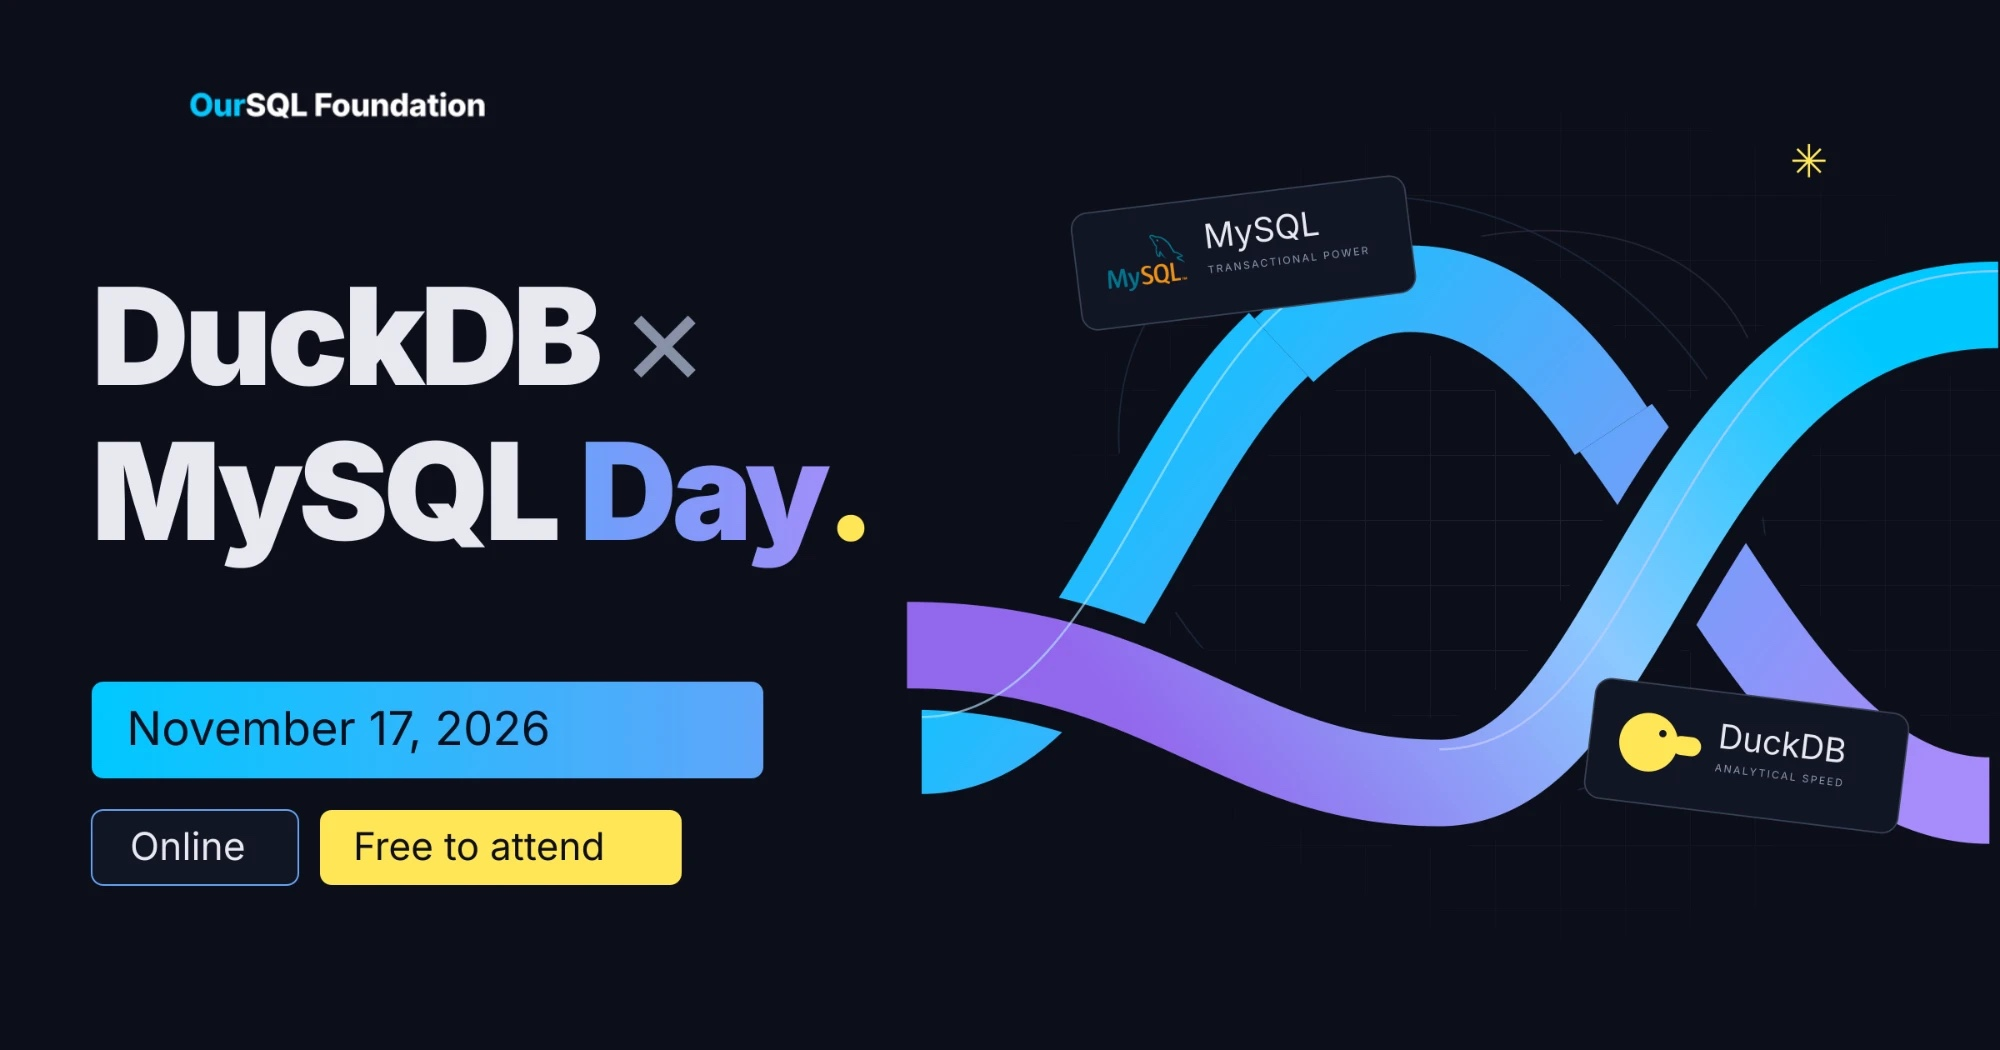
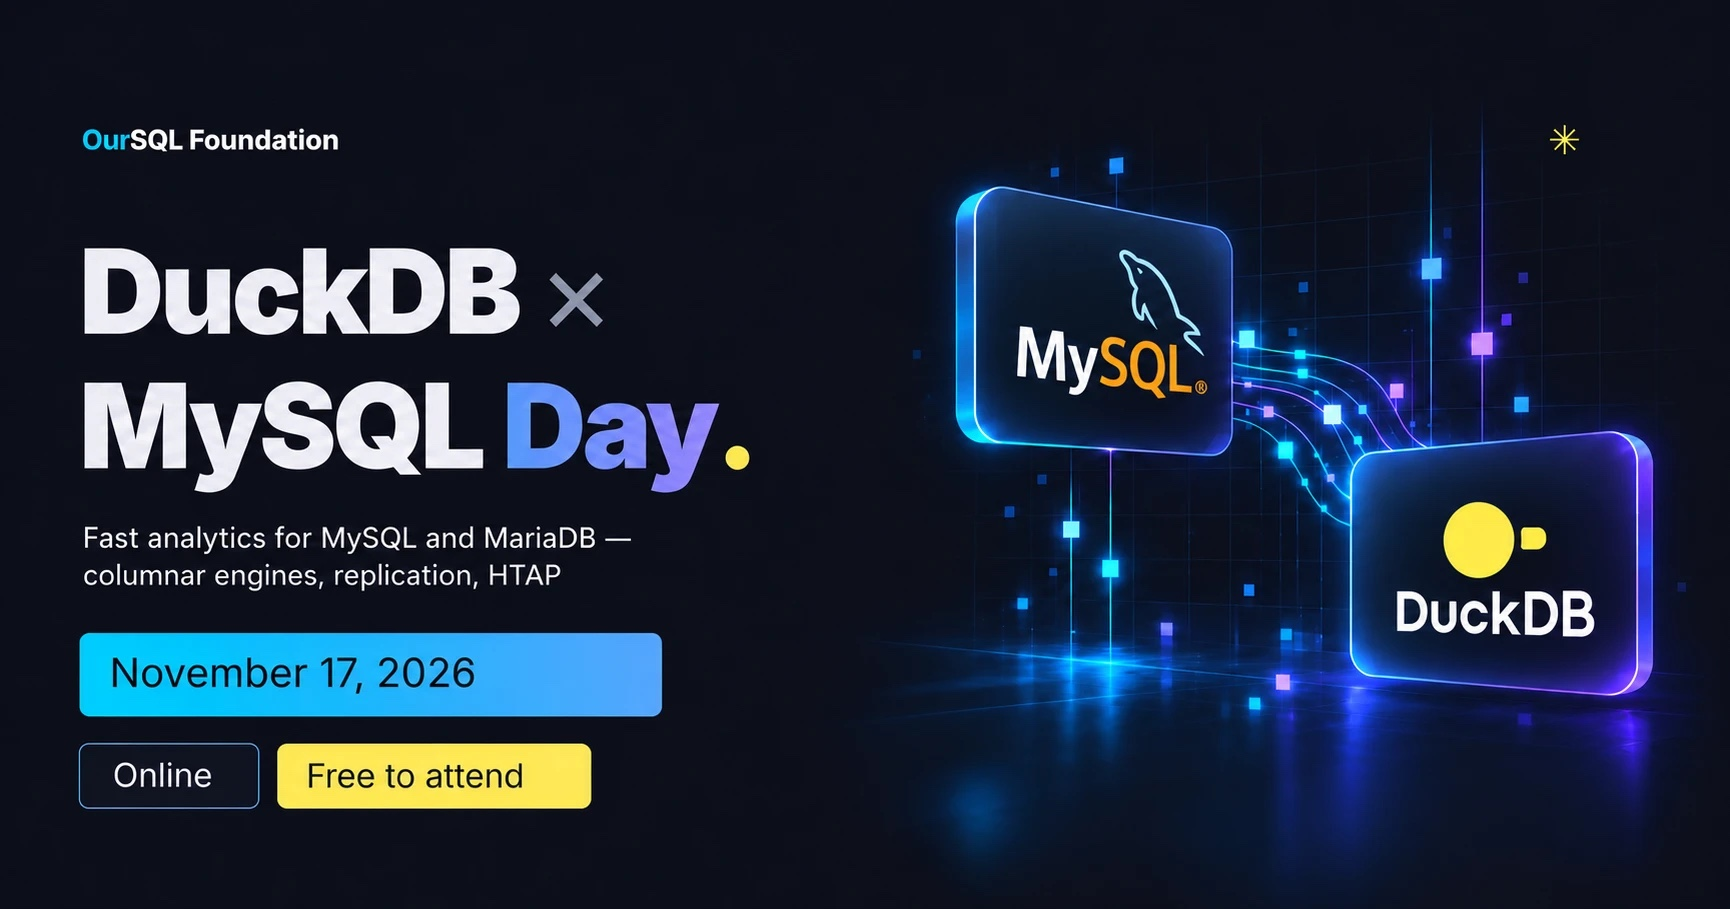
DuckDB × MySQL Day: new hero illustration, compact hero, new share cover (#125)
* DuckDB × MySQL Day: new hero illustration

Replaces the CSS/SVG hero artwork with the supplied illustration (SVG, transparent
background).

* DuckDB × MySQL Day: compact desktop hero so the date strip is on the first screen

* DuckDB × MySQL Day: larger hero illustration, MariaDB in the hero description

* DuckDB × MySQL Day: new social share cover

---------

diff --git a/layouts/partials/events/duckdb-hero-art.html b/layouts/partials/events/duckdb-hero-art.html
@@ -1,2 +1,4 @@
-{{/* Hero artwork for the DuckDB × MySQL Day landing: intertwined flows between a MySQL and a DuckDB card. Context: the page. */}}
-<div class="dmd-hero-art" aria-label="Intertwining OurSQL flows connecting MySQL and DuckDB"><div class="dmd-art-grid"></div><div class="dmd-orbit dmd-one"></div><div class="dmd-orbit dmd-two"></div><svg class="dmd-flow-art" viewBox="0 0 640 640" fill="none" aria-hidden="true"><defs><linearGradient id="flow" x1="70" y1="120" x2="570" y2="520" gradientUnits="userSpaceOnUse"><stop stop-color="#00C8FF"/><stop offset=".5" stop-color="#60A5FA"/><stop offset="1" stop-color="#A78BFA"/></linearGradient><linearGradient id="bright" x1="120" y1="500" x2="550" y2="150" gradientUnits="userSpaceOnUse"><stop stop-color="#9267ED"/><stop offset=".52" stop-color="#8BC9FF"/><stop offset="1" stop-color="#00C8FF"/></linearGradient></defs><path d="M-70 458C74 458 99 143 263 143S486 492 658 492" stroke="#0D0F1A" stroke-width="87"/><path d="M-70 458C74 458 99 143 263 143S486 492 658 492" stroke="url(#flow)" stroke-width="59"/><path d="M-80 386C92 386 144 480 283 480S435 154 664 154" stroke="#0D0F1A" stroke-width="88"/><path d="M-80 386C92 386 144 480 283 480S435 154 664 154" stroke="url(#bright)" stroke-width="59"/><path d="M177 185C207 157 233 143 263 143C318 143 361 181 400 240" stroke="#0D0F1A" stroke-width="87"/><path d="M177 185C207 157 233 143 263 143C318 143 361 181 400 240" stroke="url(#flow)" stroke-width="59"/><path d="M-70 458C74 458 99 143 263 143" stroke="#B4E6FF" stroke-opacity=".65" stroke-width="1.5" transform="translate(0 -23)"/><path d="M283 480C435 480 435 154 664 154" stroke="#C6CCFF" stroke-opacity=".7" stroke-width="1.5" transform="translate(0 -23)"/></svg><div class="dmd-engine dmd-mysql"><img class="dmd-mysql-mark" src="{{ with .Resources.Get "mysql-mark.png" }}{{ .RelPermalink }}{{ end }}" alt=""><span>MySQL<small>TRANSACTIONAL POWER</small></span></div><div class="dmd-engine dmd-duck"><span class="dmd-duck-icon"><i></i></span><span>DuckDB<small>ANALYTICAL SPEED</small></span></div><span class="dmd-art-spark">✳</span></div>
+{{/* Hero illustration for the DuckDB × MySQL Day landing: glowing MySQL and DuckDB cards joined by data flows (SVG with a transparent background, kept in the page bundle). Context: the page. */}}
+{{ with .Resources.Get "hero-illustration.svg" }}
+<div class="dmd-hero-art dmd-hero-art--image"><img src="{{ .RelPermalink }}" alt="MySQL and DuckDB cards connected by data flows, labelled Embedded engines and Analytical replication" class="dmd-hero-illustration" width="800" height="790" decoding="async"></div>
+{{ end }}

diff --git a/assets/scss/_event-landing.scss b/assets/scss/_event-landing.scss
@@ -468,3 +468,30 @@
 [data-theme="light"] .dmd-landing .dmd-portrait-initials { color: #0272a5; background: linear-gradient(135deg, #e3eaf6, #f1f5fb); }
 [data-theme="light"] .dmd-landing .dmd-talk-person .dmd-avatar-initials { color: #0272a5; background: #e3eaf6; }
 [data-theme="light"] .dmd-landing .dmd-talk-num .dmd-time-tba { color: #64748b; }
+
+// Hero illustration (SVG image) instead of the old CSS/SVG artwork.
+.dmd-landing .dmd-hero-art--image .dmd-hero-illustration {
+  position: absolute;
+  inset: 0;
+  width: 100%;
+  height: 100%;
+  object-fit: contain;
+  object-position: right center;
+}
+
+// Desktop: a compact hero so the date strip (Save the date / Online / Free) is
+// visible without scrolling on a laptop screen; the section nav below it may
+// sit on the second screen.
+@media (min-width: 1001px) {
+  .dmd-landing .dmd-breadcrumbs { padding: 16px 0; }
+  .dmd-landing .dmd-hero-grid { min-height: 0; }
+  .dmd-landing .dmd-hero-art { height: 510px; }
+  .dmd-landing .dmd-hero-original h1 {
+    font-size: #{"clamp(54px, 5.2vw, 78px)"};
+    letter-spacing: -3.5px;
+    margin-bottom: 20px;
+  }
+  .dmd-landing .dmd-hero-original .dmd-hero-copy { padding-top: 10px; padding-bottom: 20px; }
+  .dmd-landing .dmd-hero-original .dmd-hero-desc { font-size: 15px; line-height: 1.7; margin-bottom: 22px; }
+  .dmd-landing .dmd-event-strip { min-height: 84px; margin: 8px 0 44px; }
+}

diff --git a/content/events/duckdb-mysql-day/index.md b/content/events/duckdb-mysql-day/index.md
@@ -1,7 +1,7 @@
 ---
 title: "DuckDB × MySQL Day"
 description: "DuckDB × MySQL Day. A free online conference by OurSQL Foundation, November 17, 2026. Explore fast analytics for MySQL with the people building it."
-hero_description: "A one-day online conference on bringing fast analytics to MySQL: columnar engines, analytical replication, Parquet, and the road to HTAP — from the people building it."
+hero_description: "A one-day online conference on bringing fast analytics to MySQL and MariaDB: columnar engines, analytical replication, Parquet, and the road to HTAP — from the people building it."
 date: 2026-11-17
 url: "/events/duckdb-mysql-day/"
 layout: "duckdb-mysql-day"
